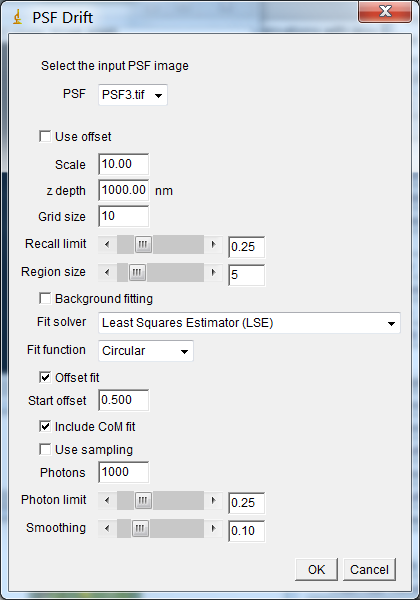
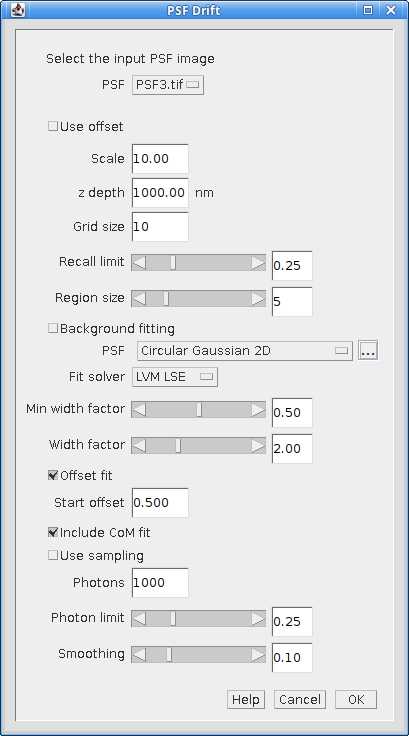
Update PSF Drift docs

Changed region(s): [[0.0, 0.0, 1.0, 1.0], [0.4988, 0.24, 0.5281, 0.27]]

diff --git a/docs/model_plugins.rst b/docs/model_plugins.rst
@@ -590,13 +590,19 @@ Parameters
    * - Background fitting
      - Select this to allow the algorithm to fit the background. Note that the background should be zero as no data is inserted into the image apart from the PSF. This can be used to more closely match the fitting performed on real data.
 
+   * - PSF
+     - The PSF function used to fit the data.
+
    * - Fit solver
      - The solver used to fit the data.
 
        Note that a second dialog will be presented for the selected solver to be configured. The values are initially set to the defaults which should work in most cases. See the ``Peak Fit`` plugin for details of how to configure the solver (section :numref:`{number}<fitting_plugins:Peak Fit>`).
 
-   * - Fit function
-     - The function used to fit the data.
+   * - Min width factory
+     - The minimum width, relative to the starting width, to accept the fit.
+
+   * - Width factor
+     - The maximum width, relative to the starting width, to accept the fit.
 
    * - Offset fit
      - Fit each image with the initial guess for the centre shifted by an offset. The guess is shifted in each of the 4 diagonal directions from the true centre.
